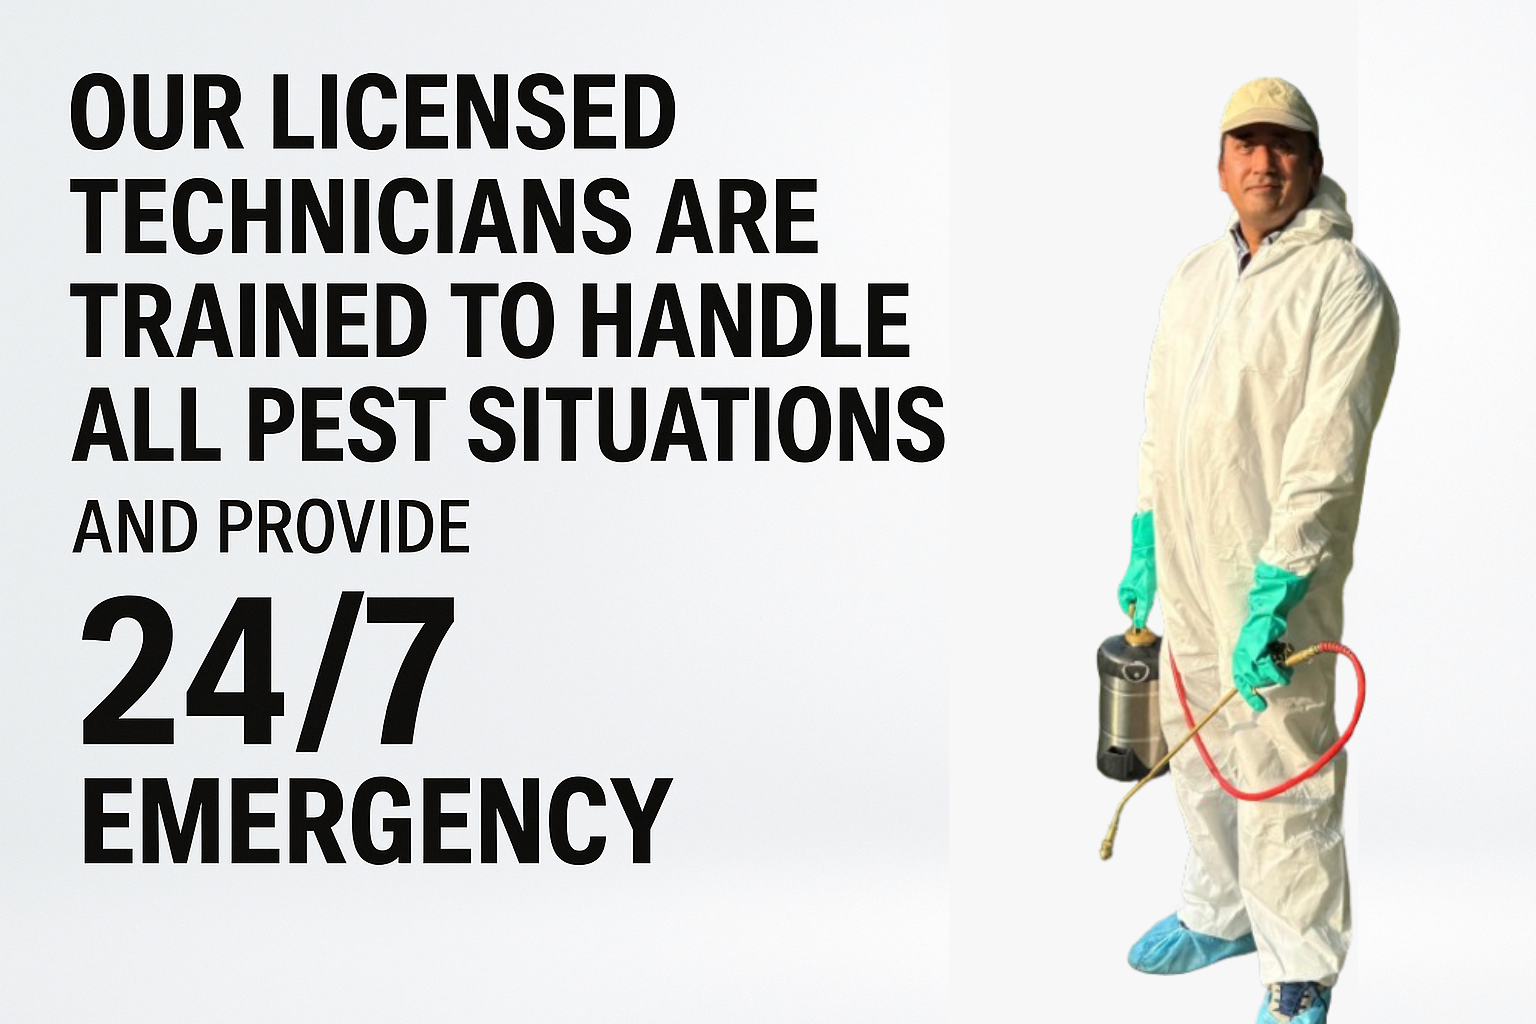
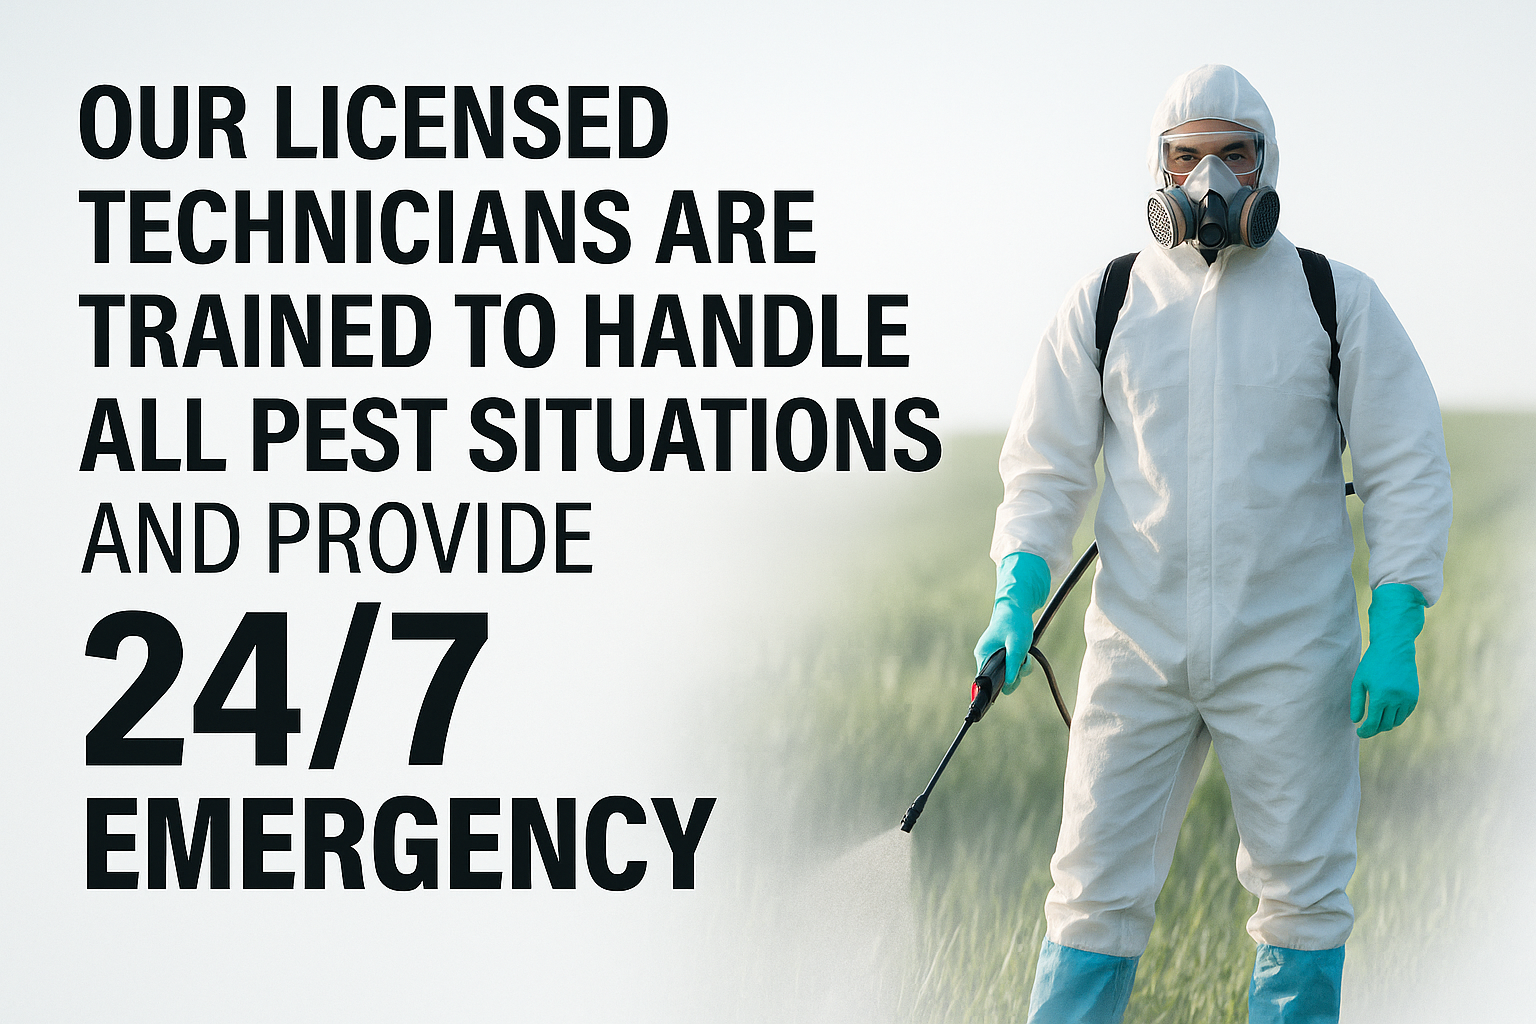
update

diff --git a/src/pages/Index.tsx b/src/pages/Index.tsx
@@ -201,7 +201,7 @@ const Index = () => {
       {/* Services Video Section */}
       <section className="py-16">
         <div className="container mx-auto px-4 text-center">
-          <h2 className="text-3xl font-bold mb-6">See Our Team In Action</h2>
+          <h2 className="text-3xl font-bold mb-6">See how our team drives success</h2>
           <div className="flex justify-center">
             <video
               src={VIDEOS.pestServices}
